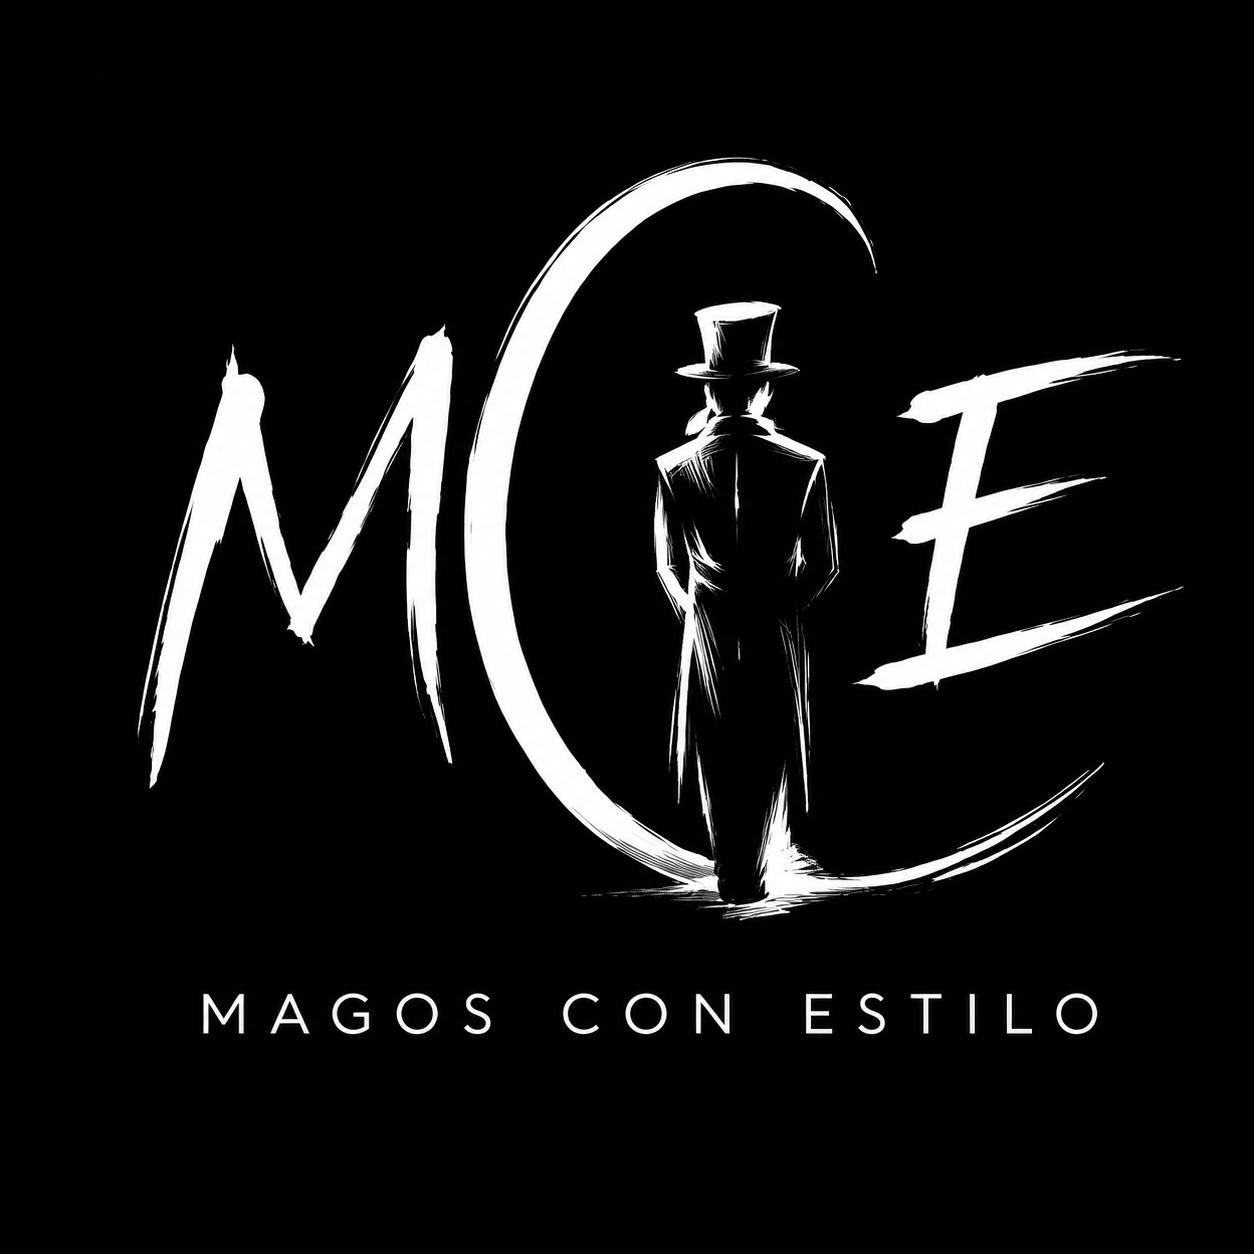
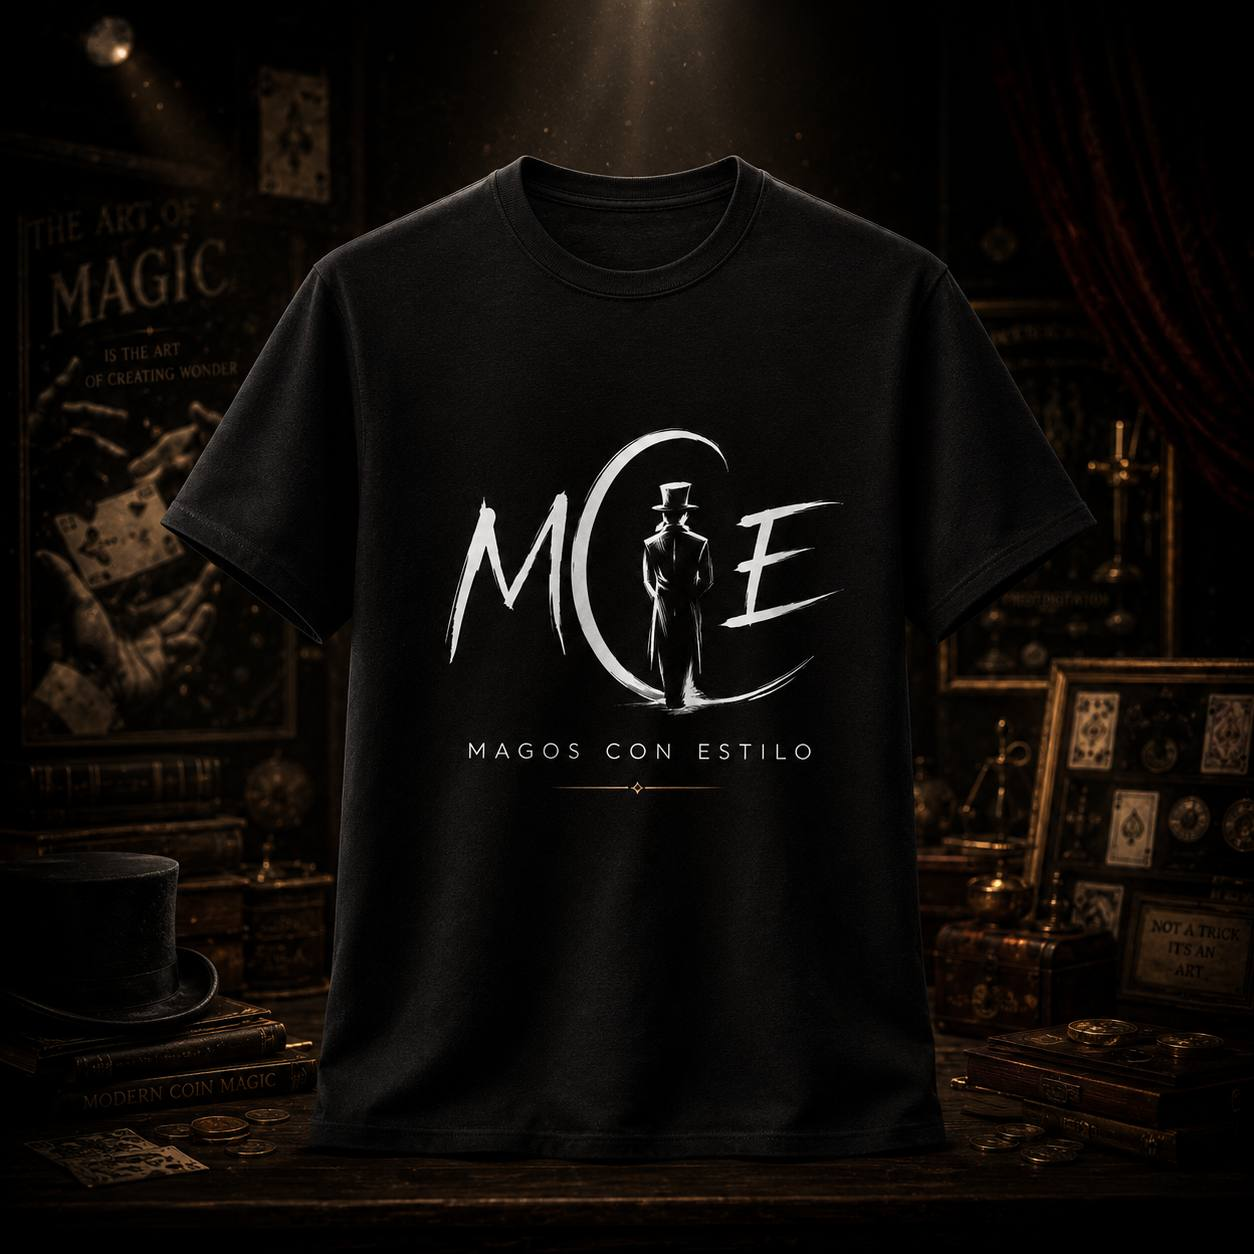
Fix: move image to product hero (Emblem) instead of home bg

diff --git a/index.html b/index.html
@@ -374,13 +374,7 @@
     .hero-bg {
       position: absolute;
       inset: 0;
-      background: url('assets/hero-home.jpg?v=2') center/cover no-repeat;
-    }
-    .hero-bg::after {
-      content: '';
-      position: absolute;
-      inset: 0;
-      background: rgba(0,0,0,0.5);
+      background: radial-gradient(ellipse at center, #111 0%, #000 70%);
     }
 
     .hero-content {
@@ -1653,7 +1647,7 @@
       </a>
       <a href="artwork-the-emblem.html" class="product-card fade-in fade-in-1">
         <div class="product-card-image">
-          <img src="assets/product-hero-the-emblem.jpg?v=3" alt="The Emblem" style="width:100%;height:100%;object-fit:cover;opacity:0.9;">
+          <img src="assets/product-hero-the-emblem.jpg?v=4" alt="The Emblem" style="width:100%;height:100%;object-fit:cover;opacity:0.9;">
           <span class="badge badge-gold">The Emblem</span>
         </div>
         <div class="product-card-info">

diff --git a/artwork-the-emblem.html b/artwork-the-emblem.html
@@ -550,7 +550,7 @@ body{
       <div class="hero-glow"></div>
       <div class="hero-floating-container" id="shirtContainer">
         <div class="hero-floating-image" id="shirtImage">
-          <img src="assets/product-hero-the-emblem.jpg?v=3" alt="The Emblem" style="width:100%;height:100%;object-fit:cover;display:block;">
+          <img src="assets/product-hero-the-emblem.jpg?v=4" alt="The Emblem" style="width:100%;height:100%;object-fit:cover;display:block;">
         </div>
         <div class="hero-shimmer"></div>
       </div>